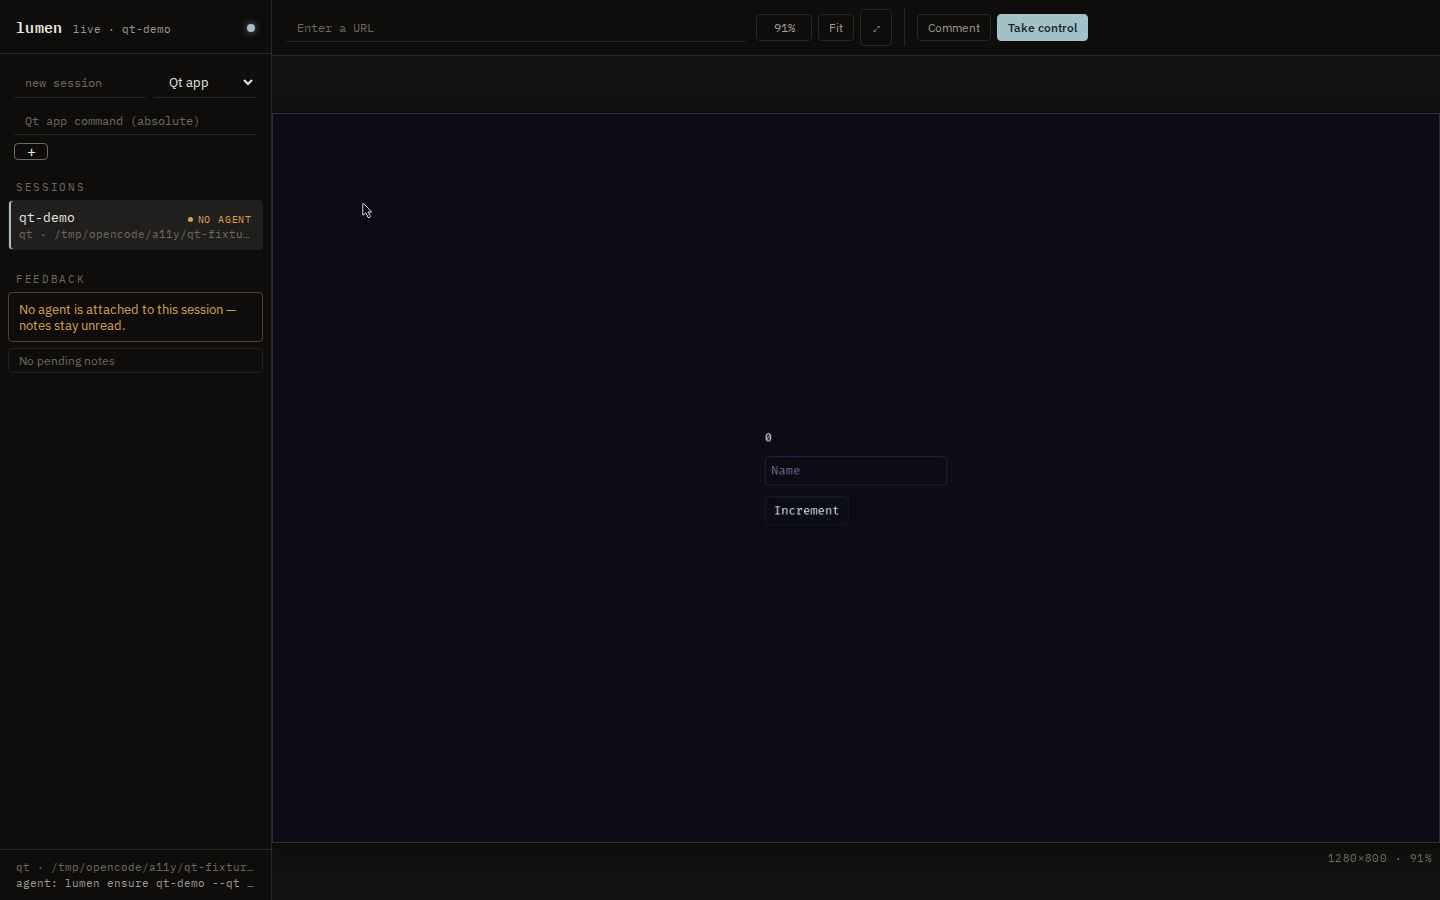
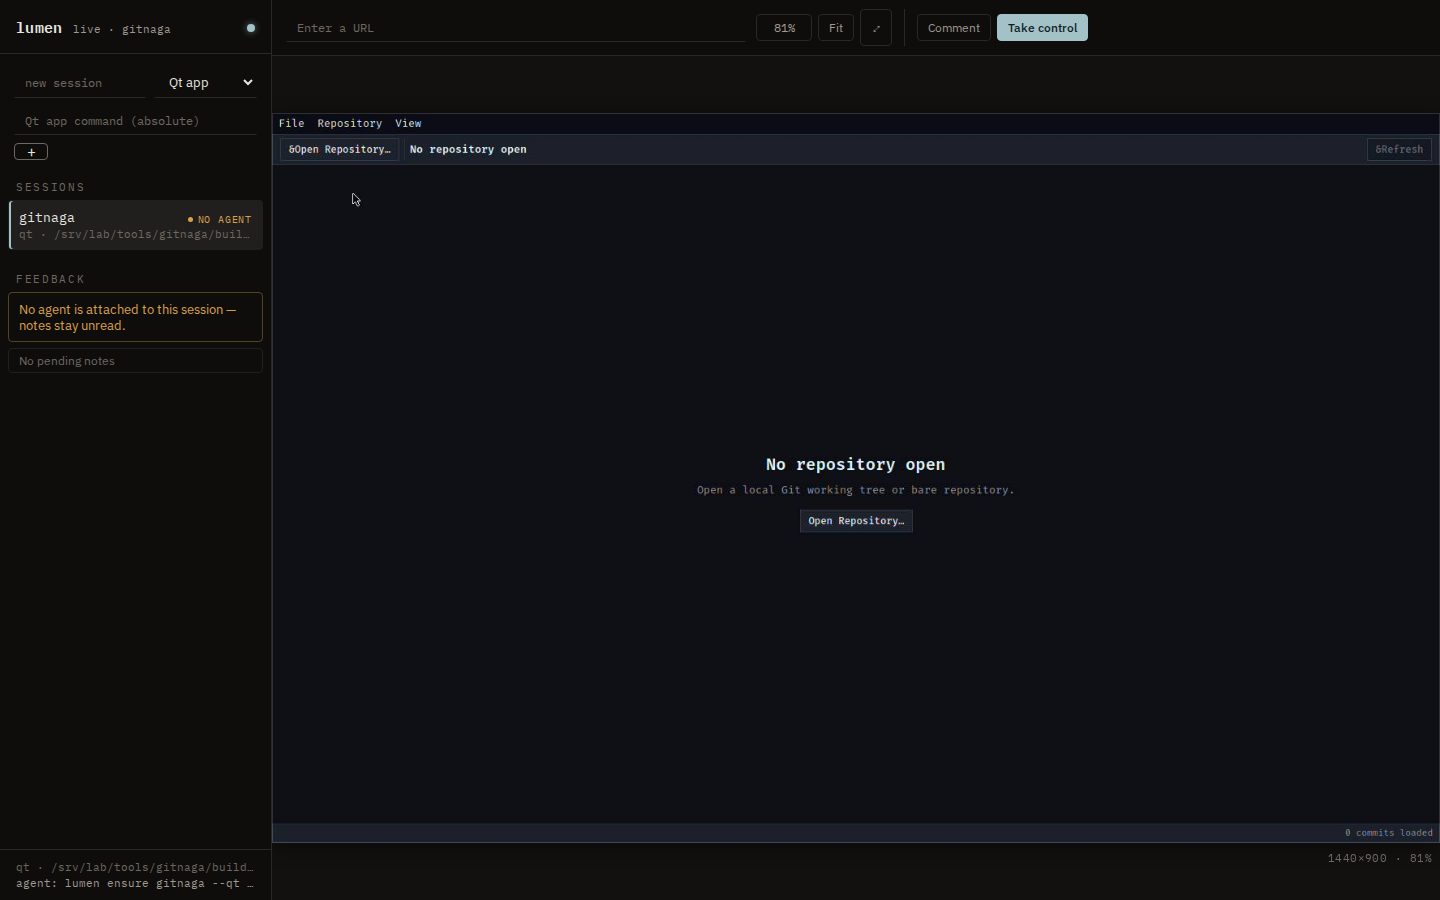
docs(qt): show a real Qt application in the viewer screenshot
Replace the synthetic fixture capture with GitNaga, a native Qt application,
running in the viewer: its window streams on the canvas and the session list
shows the Qt kind.

diff --git a/README.md b/README.md
@@ -148,7 +148,7 @@ are `GET /v1/sessions/{name}/accessibility`, `POST …/accessibility/click`, and
 `POST …/accessibility/type`.
 
 <p align="center">
-  <img src="docs/images/viewer-qt.png" alt="The Lumen viewer running a Qt application session: the session list on the left shows the Qt app, and its live window streams on the canvas" width="920">
+  <img src="docs/images/viewer-qt.png" alt="The Lumen viewer running GitNaga, a native Qt application: the session list on the left shows the Qt session, and GitNaga's window streams live on the canvas" width="920">
 </p>
 
 The application must be a normal Qt program — Qt Widgets, or QML loaded through
